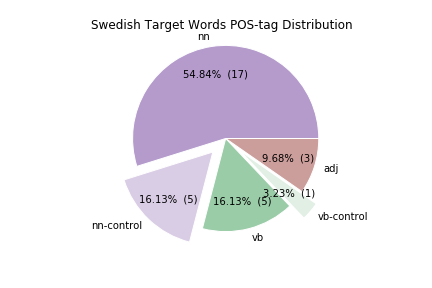
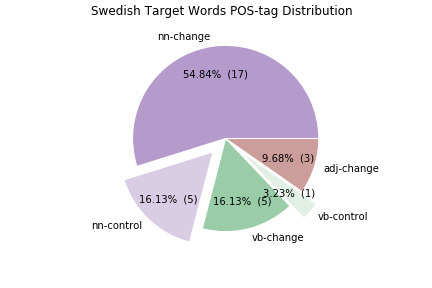
appendix formatting

Changed region(s): [[0.2106, 0.0, 0.8125, 0.1562], [0.7824, 0.5625, 0.8727, 0.625], [0.6019, 0.8125, 0.7222, 0.8438]]

diff --git a/sections/6-limitations.tex b/sections/6-limitations.tex
@@ -1,14 +1,10 @@
-\section{Critiques and Limitations (mostly critique, whats another name for this section)}
+\section{Critiques and Limitations}
 \label{sec:critiques}
 
 The common and most effective approach in detecting language change still presents limitations and makes many assumptions that must be acknowledged and discussed. This section will discuss components of semantic change that are overlooked with the approach used for this thesis and its shortcomings. 
 
-As with any task, different approaches have different aims and results. When detecting LSC through vector representations, the choice of what each vector represents can significantly change the results. For this thesis, each word in the vocabulary is represented by one vector only. However, by doing so the meaning of a word is limited, or arguably broadened. Words that have more than one sense or meaning will only be represented by an average of all of the times the word has been used in the corpus. This word vector representation can then be affected by the frequencies of the senses. If one sense appears more in a corpus than the other, its representation will skew towards the sense that is more prevalent.  When LSC is detected, the word’s multiple senses will be considered one entity. For example, if both of a word’s senses such as ‘arms’ as in the body part and ‘arms’ as in weapons appear in the same corpus, it will result in having one vector representation although each sense is different from the other. Using this approach while also using corpora that have time period spans as wide as multiple centuries can also overlook and skew the data. \citet{shoemark-etal-2019-room} show that there is a high chance that seasonal changes in words interfere with detecting semantic change within short time periods and present synthetic evaluation as a solution. An example of a seasonal trend would be the drastic change in frequency and use of the word 'turkey' during Thanksgiving. It is also important to acknowledge that this approach is inherently biased towards word frequency and lead to noise being introduced within the embeddings. (\citet{dubossarsky-etal-2017-outta}, \citet{kaiser-etal-2020-ims}, \citet{schlechtweg-etal-2020-semeval})
+As with any task, different approaches have different aims and results. When detecting LSC through vector representations, the choice of what each vector represents can significantly change the results. For this thesis, each word in the vocabulary is represented by one vector only. However, by doing so the meaning of a word is limited, or arguably broadened. Words that have more than one sense or meaning will only be represented by an average of all of the times the word has been used in the corpus. This word vector representation can then be affected by the frequencies of the senses. If one sense appears more in a corpus than the other, its representation will skew towards the sense that is more prevalent.  When LSC is detected, the word’s multiple senses will be considered one entity. For example, if both of a word’s senses such as ‘arms’ as in the body part and ‘arms’ as in weapons appear in the same corpus, it will result in having one vector representation although each sense is different from the other. Using this approach while also using corpora that have time period spans as wide as multiple centuries can also overlook and skew the data. \citet{shoemark-etal-2019-room} show that there is a high chance that seasonal changes in words interfere with detecting semantic change within short time periods and present synthetic evaluation as a solution. An example of a seasonal trend would be the drastic change in frequency and use of the word 'turkey' during Thanksgiving. It is also important to acknowledge that this approach is inherently biased towards word frequency and lead to noise being introduced within the embeddings. \citep{dubossarsky-etal-2017-outta, kaiser-etal-2020-ims, schlechtweg-etal-2020-semeval}
 
 Pre-processing of texts can also have a large effect on the scale and types of semantic change that can be detected. Methods such as lemmatization, lowercasing words, and removal of punctuation can limit what can be detected in terms of language change. For example, the change of 'apple' the fruit to 'Apple' the company would be difficult to detect if all use of the words in a corpus were lowercased \citep{tahmasebi-survey2018}. Since the SemEval corpora was gathered for a specific task with target words, this is not a great concern. However, it is something that must be considered when models are trained for general observation of semantic change.
-IS THIS NECESSARY?
 
-
-RE-READ THIS
-
-The method in which corpora are divided into time periods also present complexities within detecting LSC that must be considered \citep{hengchen2021challenges}. By grouping long periods of time as one time period, the slight variation and changes of meaning words undergo are either lost or minimized. A word or sense’s change in meaning does not have one clear trajectory. As with the SemEval Task, we are essentially detecting the average change of a word within two time periods. In order to detect “smaller” semantic changes, the time periods and the size of the corpora must be reduced. The genres of text within the corpora must also be considered. The texts used for English, German, and Swedish all contain newspaper corpora from specific time periods. It is important to be mindful that this kind of corpora is representative of a specific part of culture and society and is composed of a specific type of writing style. These corpora used with the Distributional Hypothesis “often conflate lexical meaning with cultural and topical information available in the corpus used as a basis for the model” \citep{hengchen2021challenges}. With such limited contexts, a question to keep in mind is whether newspaper corpora provide enough insight into the usages of a word and therefore the changes a word undergoes \citep{hengchen2021challenges}. Using a mix of text genres will provide a wider variety of word usages as one word sense could be used more in one genre over the other. Another solution would be to use textual genres and other social factors as features for the words' vector representations (\citet{perrone-etal-2019-gasc}, \citet{jawahar-seddah-2019-contextualized}). For SemEval, this is mitigated by having annotators provide the ground truth of a limited sample of a language using the DURel framework \citep{DURel2018} instead of referring to a dictionary. (MISSING EXPLAINING SENTENCE?, FEELS DISJOINTED) In detecting LSC as is the case with other research areas, domain-specific tasks will require different datasets and different methods of processing data. There is no one method to achieve all of the tasks of language change and different types of change in meaning can be detected through different methodologies. 
+The method in which corpora are divided into time periods also present complexities within detecting LSC that must be considered \citep{hengchen2021challenges}. By grouping long periods of time as one time period, the slight variation and changes of meaning words undergo are either lost or minimized. A word or sense’s change in meaning does not have one clear trajectory. As with the SemEval Task, we are essentially detecting the average change of a word within two time periods. In order to detect “smaller” semantic changes, the time periods and the size of the corpora must be reduced. The genres of text within the corpora must also be considered. The texts used for English, German, and Swedish all contain newspaper corpora from specific time periods. It is important to be mindful that this kind of corpora is representative of a specific part of culture and society and is composed of a specific type of writing style. These corpora used with the Distributional Hypothesis “often conflate lexical meaning with cultural and topical information available in the corpus used as a basis for the model” \citep{hengchen2021challenges}. With such limited contexts, a question to keep in mind is whether newspaper corpora provide enough insight into the usages of a word and therefore the changes a word undergoes \citep{hengchen2021challenges}. Using a mix of text genres will provide a wider variety of word usages as one word sense could be used more in one genre over the other. Another solution would be to use textual genres and other social factors as features for the words' vector representations \citep{perrone-etal-2019-gasc, jawahar-seddah-2019-contextualized}. For SemEval, this is mitigated by having annotators provide the ground truth of a limited sample of a language using the DURel framework \citep{DURel2018} instead of referring to a dictionary. (MISSING EXPLAINING SENTENCE?, FEELS DISJOINTED) In detecting LSC, as is the case with other research areas, domain-specific tasks will require different datasets and different methods of processing data. There is no one method to achieve all of the tasks of language change and different types of change in meaning can be detected through different methodologies. 

diff --git a/sections/5-ethics.tex b/sections/5-ethics.tex
@@ -1,8 +1,8 @@
 \section{Ethical Considerations}
 \label{sec:ethicalcons}
 
-Alongside an experimental research method such as a hyperparameter search, ethical considerations and acknowledgments must be included. The effects of conducting this experiment is critically assessed and evaluated through environmental and sociological lenses.
+Alongside an experimental research method such as a hyperparameter search, ethical considerations and acknowledgments must be included. (BAD WORDING) The effects of conducting this experiment is critically assessed and evaluated through environmental and sociological lenses.
 
-Throughout the process of the hyperparameter search, environmental impact was considered at each step. Although making adjustments were made in order to minimise environmental impact, they also create a more efficient and robust pipeline. As discussed in Section~\ref{exp-ethics}, the project had a total of X hours of training and computational time spent and X amount of CO\textsubscript{2} consumed. After training all of the model combinations that use the Word2Vec algorithm, results were evaluated and it was decided that not training 160 model combinations that required 100 epochs each of training for FastText would not produce results as significant or meaningful. Since FastText aims to create character \emph{n}-gram vector representations, training 100-epoch models would involve a much larger computational time and memory usage compared to the already large models that were created using Word2Vec. Despite acknowledgments and modifications for minimising consumption and efficiency reasons, a significant amount of energy and memory being used is inevitable during a large-scale hyperparameter search. To ensure that the energy consumed and the space taken is worthwhile, all of the results and pipeline will be available for public access (see \autoref{app-resources}). The POS-tagged word lists and cosine distances for each model will also be available for further analysis and future evaluations. This large-scale hyperparameter search is also well-documented to ensure that it will not have to be done again and future tasks can focus on refining model optimisations. 
+Throughout the process of the hyperparameter search, environmental impact was considered at each step. Although making adjustments were made in order to minimise environmental impact, they also create a more efficient and robust pipeline. As discussed in Section~\ref{exp-ethics}, the project had a total of approximately 430 hours of training and computational time spent and 1.372 kg of CO\textsubscript{2} consumed. After training all of the model combinations that use the Word2Vec algorithm, results were evaluated and it was decided that not training 160 model combinations that required 100 epochs each of training for FastText would not produce results as significant or meaningful. Since FastText aims to create character \emph{n}-gram vector representations, training 100-epoch models would involve a much larger computational time and memory usage compared to the already large models that were created using Word2Vec. Despite acknowledgments and modifications for minimising consumption and efficiency reasons, a significant amount of energy and memory being used is inevitable during a large-scale hyperparameter search. To ensure that the energy consumed and the space taken is worthwhile, all of the results and pipeline will be available for public access (see \autoref{app-resources}). The POS-tagged word lists and cosine distances for each model will also be available for further analysis and future evaluations. This large-scale hyperparameter search is also well-documented to ensure that it will not have to be done again and future tasks can focus on refining model optimisations. 
 
-Another crucial consideration that must be made is regarding the data and the type of content being used for training models. Humans have written the texts in the corpora being used and humans are inherently biased. Anonymity is also a concern for researchers when using text as data. Most of the historical texts used for this thesis are quite old, spanning from 2nd century B.C. to 2010 with most of the texts coming from the 1800s-1900s. Given the age of the texts being used, the question of anonymity and privacy is not a large concern for this thesis. Through training, machines also inevitably learn the biases from these past texts. Biases such as racism, sexism, homophobia and other forms of discrimination towards marginalised groups of people can be seen throughout historical texts. \citet{tripodi-etal-2019-tracing} show that antisemitic language can be detected through language change. It is extremely vital to acknowledge that these biases can appear in historical texts and to disclose (SOUNDS EXTRA LOL) that I do not endorse, nor agree with these biases. It is incredibly important to acknowledge the inherent bias that exists within historical data and what might be passed on to trained models. As \citet{hengchen-tahmasebi_2021-swedishdiachronic} state, the hope is to “shed light on these representations, as ignoring them would mean they have never existed”. 
+Another crucial consideration that must be made is regarding the data and the type of content being used for training models. Humans have written the texts in the corpora being used and humans are inherently biased. Anonymity is also a concern for researchers when using text as data. Most of the historical texts used for this thesis are quite old, spanning from 2nd century B.C. to 2010 with most of the texts coming from the 1800s-1900s. Given the age of the texts being used, the question of anonymity and privacy is not a large concern for this thesis. Through training, machines also inevitably learn the biases from these past texts. Biases such as racism, sexism, homophobia and other forms of discrimination towards marginalised groups of people can be seen throughout historical texts. \citet{tripodi-etal-2019-tracing} show that antisemitic language can be detected through language change. It is extremely vital to acknowledge that these biases can appear in historical texts and to disclose (SOUNDS EXTRA LOL) that I do not endorse, nor agree with these biases. It is incredibly important to acknowledge the inherent biases that exist within historical data and what might be passed on to trained models. As \citet{hengchen-tahmasebi_2021-swedishdiachronic} state, the hope is to “shed light on these representations, as ignoring them would mean they have never existed”. 

diff --git a/sections/3-exp-setup.tex b/sections/3-exp-setup.tex
@@ -84,6 +84,15 @@ In order to clarify the scope and justify the hyperparameter range for this larg
 
 
 %\cmtKV[inline]{**formatting, also think it would be useful to show the range after each subsubsection heading or would that be redundant, this below could also be neater, need to look into it}
+
+% bad conduct
+\bigskip
+\bigskip
+\bigskip
+\bigskip
+\bigskip
+\bigskip
+\bigskip
 The initial hyperparameters examined and analysed are shown below:
 \begin{itemize}
     \item language $\in$ [English, German, Latin, Swedish],
@@ -145,6 +154,6 @@ Initially, 1600 models were planned to be trained for this large-scale hyperpara
 
 The longer period of planning the pipeline was to ensure that once training begins, there are as little road blocks as possible. This would ensure that the training process and the storing of models were always organised and never lost or having to be retrained to avoid unnecessary consumption of resources. In hopes of remaining vigilant and conscious of the large amount of energy, resources, and storage being used for this thesis, adjustments to help with time and energy consumption were constantly being made to the pipeline. After the large-scale pipeline and the Orthogonal Procrustes alignment was incompatible with FastText models, the pipeline was restructured and already existing models were reformatted for efficiency purposes. Before the reformatting, 1TB of data and models were being stored. They were then transferred and reformatted as text files to take up significantly less space. To save computational time and energy, the cosine distances for the target words of each model were also stored as text files and will be made available to the public along with the model text files and pipeline. This was incredibly helpful since the initial plan was for the model to iterate through its entire vocabulary to search for the target words and calculate the overall Spearman’s $\rho$ and again for nouns, verbs, and adjectives. Another adjustment made during training was for the Incremental Alignment method. The model trained on the first time period corpus with the same hyperparameter combinations but for the Orthogonal Procrustes alignment method was used and trained again with the second time period corpus. This eliminated training what would have been 720 duplicate models.  
 
-This large undertaking was done using an Intel Xeon CPU E5-2640 v4 (25M Cache, 2.40 GHz). With about X hours total of training and computational time, around XX kg of CO\textsubscript{2} has been used which equates to X bananas, or X kilometers driven, or X avocados from Mexico\footnote{\url{https://www.weforum.org/agenda/2020/02/avocado-environment-cost-food-mexico/}}. These calculations were made through the CO\textsubscript{2} GU mltgpu tutorial\footnote{\url{https://github.com/faustusdotbe/CO2_GU_mltgpu/blob/main/mltgpu_co2.ipynb}} by Simon Hengchen. These statistics are incredibly important to disclose considering the vast environmental impact conducting these experiments will have. 
+This large undertaking was done using an Intel Xeon CPU E5-2640 v4 (25M Cache, 2.40 GHz). With approximately 430 hours total of training and computational time, around 1.372 kg of CO\textsubscript{2} has been used which equates to around 17 bananas, or 7.4 kilometers driven, or 3.2 avocados from Mexico\footnote{\url{https://www.weforum.org/agenda/2020/02/avocado-environment-cost-food-mexico/}}. These calculations were made through the CO\textsubscript{2} GU mltgpu tutorial\footnote{\url{https://github.com/faustusdotbe/CO2_GU_mltgpu/blob/main/mltgpu_co2.ipynb}} by Simon Hengchen. These statistics are incredibly important to disclose considering the vast environmental impact conducting these experiments will have. 
 \citet{strubell-etal-2019-energy} state that the most computationally-hungry models typically obtain the highest scores. \citet{strubell-etal-2019-energy} also raise awareness on the CO\textsubscript{2} consumption within the NLP community and the importance of reporting train times and sensitivity to hyperparameters. By providing these statistics, the overall scores, and other files that require computational time and energy consumption, others are able to  further explore and examine this task without having to do all of the model training again. The reporting and analysing of hyperparameter sensitivities and patterns between the models will also allow researchers to apply the findings of this thesis when selecting hyperparameters in order to train models that are efficient, environmentally-conscious, and yield the best results.
 

diff --git a/sections/9.2-appendix-overallresults.tex b/sections/9.2-appendix-overallresults.tex
@@ -1,7 +1,9 @@
-\section{Top-model Graphs (WORDING)}
+\section{Top Model Results Graphs}
 \label{app-topmodelgraphs}
 
-Each top-performing model is taken and only one parameter is changed to each possible variable examined in the hyperparameter search. How performance is affected by value changes in one variable is visualised through the graphs below. The figures are grouped by language. 
+Each top-performing model for each language is taken and only one hyperparameter is changed to each possible variable examined. How performance is affected by value changes in one variable is visualised through the graphs below. The figures are grouped by language. 
+
+\bigskip
 
 \begin{figure}[h]
   \centering
@@ -9,10 +11,15 @@ Each top-performing model is taken and only one parameter is changed to each pos
   \subcaptionbox{Dimensions}{\includegraphics[width = 3in]{sections/figures/top-models/eng_dims.png}}\\
   \subcaptionbox{Frequency Threshold}{\includegraphics[width = 3in]{sections/figures/top-models/eng_freqs.png}}\quad
   \subcaptionbox{Vocabulary Size}{\includegraphics[width = 3in]{sections/figures/top-models/eng_vocabalign.png}}
-  \caption{English Top-Model Graphs (MAKE A MORE MEANINGFUL CAPTION)}
+  \caption{English Top Model Hyperparamater Graphs}
   \label{fig:eng-topmodels}
 \end{figure}
 
+
+
+\pagebreak
+
+\vspace*{\fill}
 
 \begin{figure}[h]
   \centering
@@ -20,20 +27,30 @@ Each top-performing model is taken and only one parameter is changed to each pos
   \subcaptionbox{Dimensions}{\includegraphics[width = 3in]{sections/figures/top-models/deu_dims.png}}\\
   \subcaptionbox{Frequency Threshold}{\includegraphics[width = 3in]{sections/figures/top-models/deu_freqs.png}}\quad
   \subcaptionbox{Vocabulary Size}{\includegraphics[width = 3in]{sections/figures/top-models/deu_vocabalign.png}}
-  \caption{German Top-Model Graphs (MAKE A MORE MEANINGFUL CAPTION)}
+  \caption{German Top Model Hyperparamater Graphs)}
   \label{fig:deu-topmodels}
 \end{figure}
 
+\vspace*{\fill}
 
+\pagebreak
+
+\vspace*{\fill}
+ 
 \begin{figure}[h]
   \centering
   \subcaptionbox{Epochs}{\includegraphics[width = 3in]{sections/figures/top-models/lat_epochs.png}}\quad
   \subcaptionbox{Dimensions}{\includegraphics[width = 3in]{sections/figures/top-models/lat_dims.png}}\\
   \subcaptionbox{Frequency Threshold}{\includegraphics[width = 3in]{sections/figures/top-models/lat_freqs.png}}\quad
-  \caption{Latin Top-Model Graphs (MAKE A MORE MEANINGFUL CAPTION)}
+  \caption{Latin Top Model Hyperparamater Graphs}
   \label{fig:lat-topmodels}
 \end{figure}
 
+\vspace*{\fill}
+
+\pagebreak
+
+\vspace*{\fill}
 
 \begin{figure}[h]
   \centering
@@ -41,6 +58,8 @@ Each top-performing model is taken and only one parameter is changed to each pos
   \subcaptionbox{Dimensions}{\includegraphics[width = 3in]{sections/figures/top-models/sve_dims.png}}\\
   \subcaptionbox{Frequency Threshold}{\includegraphics[width = 3in]{sections/figures/top-models/sve_freqs.png}}\quad
   \subcaptionbox{Vocabulary Size}{\includegraphics[width = 3in]{sections/figures/top-models/sve_vocabalign.png}}
-  \caption{Swedish Top-Model Graphs (MAKE A MORE MEANINGFUL CAPTION)}
+  \caption{Swedish Top Model Hyperparamater Graphs}
   \label{fig:sve-topmodels}
 \end{figure}
+
+\vspace*{\fill}

diff --git a/sections/7-future.tex b/sections/7-future.tex
@@ -3,7 +3,7 @@
 
 There are still many questions that remain unanswered in the study of language change. In detecting LSC, finding methodologies that perform well in their respective domains is a continuous undertaking. Ways to expand the hyperparameter search in different aspects will be discussed in this section.
 
-Models trained on diachronic corpora to detect LSC must also be validated in other ways. Although the top models in this thesis performed well based on SemEval’s diachronic corpora, it would be interesting to take the same models and examine the model’s word representations based on synchronic data. Evaluating the validity of these models not only diachronically would give more insight into what word representations have learned and how accurate they are. This can be done by using a dataset such as \citet{supersim2021}'s SuperSim dataset—a similarity and relatedness test set for Swedish based on expert human judgments. 
+Models trained on diachronic corpora to detect LSC must also be validated in other ways. Although the top models in this thesis performed well based on SemEval’s diachronic corpora, it would be interesting to take the same models and examine each of the model’s word representations based on synchronic data. Evaluating the validity of these models not only diachronically would give more insight into what word representations have learned and how accurate they are. This can be done by using a dataset such as \citet{supersim2021}'s SuperSim dataset—a similarity and relatedness test set for Swedish based on expert human judgments. 
 
 An evident expansion of this hyperparameter search would be to use the top-performing hyperparameter combinations on other tasks and datasets to assess their robustness and applicability. Conducting similar hyperparameter searches for other languages would allow for a results comparison to see if the same hyperparameter combinations perform best and persist with languages that have similar structures or belong to the same language family. Of course, it is important to keep in mind that availability of datasets for LSC is very limited and the work will begin with creating these datasets. However, once this work has been done, identifying patterns between languages and their top-performing models would allow for a higher-level examination of hyperparameter combinations. Conclusions will hopefully be possible for meta-languages depending on how languages are related—genetic or phylogenetic, or shared language features (e.g. phonology, morphology, syntax). This would allow for more broad intuitions into what models create reliable word representations depending on the language.
 

diff --git a/main.tex b/main.tex
@@ -48,7 +48,7 @@ Semester and year: & Spring, 2021\\
 Supervisor: & Simon Hengchen\\
 Examiner: & Eleni Gregoromichelaki\\
 Report number: & (number will be provided by the administrators) \\
-Keywords: & (enter a few keywords) 
+Keywords: & semantic change, language change, diachronic word embeddings
 \end{tabular}
 \endgroup
 
@@ -62,7 +62,10 @@ Keywords: & (enter a few keywords)
 \singlespacing
 \section*{Abstract}
 
-Brief summary of research question, background, method, results\ldots
+RE-READ
+
+
+Lexical semantic change (LSC) detection through the use of diachronic corpora and computational methods continues to be a prevalent research area in language change. However, there has not been extensive work on further examining the models being trained and creating a foundation for what hyperparameters are best to use in order to obtain the best results.  In this thesis,  a large-scale hyperparameter search is conducted using the SemEval-2020 Task 1 dataset that includes English, German, Swedish, and Latin. Alongside model hyperparameters, algorithms (Word2Vec and FastText) and alignment methods (Orthogonal Procrustes and Incremental Training) were also included. The hyperparameters that were evaluated are: epochs, vector dimension size, frequency threshold, and shared vocabulary size for the Orthogonal Procrustes alignment method. By amalgamating all of the results and seeing how model performances are affected if one hyperparameter is changed, considerations that must be made before training a model were substantiated. Conclusions made were that there is a large decrease in performance improvement rate after 50 epochs in training and that the typical choice of 300 dimensions for vectors (based on English LSC tasks) does not necessarily apply to other languages. It is also shown that choices in dimension size, frequency threshold, and shared vocabulary size depend on the language in question, the corpus' size, and the genres of texts it is composed of. 
 
 \thispagestyle{empty}
 
@@ -145,11 +148,18 @@ Acknowledgements, etc.
 \addcontentsline{toc}{section}{References}
 \bibliography{anthology,katesbib}
 
-
+\newpage
 \appendix
 \input{sections/9.1-appendix-resources}
+
+\newpage
+
 \input{sections/9.2-appendix-overallresults}
+
+\newpage
+
 \input{sections/9.3-appendix-postagresults}
+\newpage
 
 \end{document}
 

diff --git a/sections/4-results.tex b/sections/4-results.tex
@@ -100,14 +100,16 @@ Every model trained was also evaluated by creating smaller target word lists bas
 
 %\cmtSH[inline]{Could you perhaps try to stick "the block of the same colour" together in the figure? Eg in Swedish and German. It's currently also difficult to know eg if the values for "nn" include those for "nn-control"}
 %\cmtKV[inline]{REARRANGE PIE SLICES}
+%\cmtSH{It would be wiser to rename, in the plot itself, "nn" to "nn-change" -- otherwise it's unclear whether nn-control is part of nn without doing the addition} 
 
 \begin{figure}[h]
   \centering
-  \subcaptionbox{\label{fig:postag-eng}English}{\includegraphics[width = 3in]{sections/figures/eng-pos-target-control.png}}\quad
-  \subcaptionbox{\label{fig:postag-deu}German}{\includegraphics[width = 3in]{sections/figures/deu-pos-target-control.png}}\\
-  \subcaptionbox{\label{fig:postag-lat}Latin}{\includegraphics[width = 3in]{sections/figures/lat-pos-target-control.png}}\quad
-  \subcaptionbox{\label{fig:postag-sve}Swedish}{\includegraphics[width = 3in]{sections/figures/sve-pos-target-control.png}}
-  \caption{Target Word POS-tag Distribution for Each Language. Control words (words that have not undergone semantic change) are shown through a lighter colour respective of its POS-tag and offsetted. }
+  \vspace*{-2mm}
+  \subcaptionbox{\label{fig:postag-eng}English (89$\%$ nouns, 11$\%$ verbs)}{\includegraphics[width = 3in]{sections/figures/eng-pos-target-control.png}}\quad
+  \subcaptionbox{\label{fig:postag-deu}German(67$\%$ nouns, 29$\%$  verbs, 4$\%$ adjectives)}{\includegraphics[width = 3in]{sections/figures/deu-pos-target-control.png}}\\
+  \subcaptionbox{\label{fig:postag-lat}Latin (70$\%$ nouns, 12.5$\%$  verbs, 17.5$\%$ adjectives)}{\includegraphics[width = 3in]{sections/figures/lat-pos-target-control.png}}\quad
+  \subcaptionbox{\label{fig:postag-sve}Swedish (71$\%$ nouns, 19$\%$ verbs, 10$\%$ adjectives)}{\includegraphics[width = 3in]{sections/figures/sve-pos-target-control.png}}
+  \caption{Target Word POS-tag Distribution for Each Language. Control words (words that have not undergone semantic change) are shown through a lighter colour respective of its POS-tag and offsetted. Percentages are rounded to the nearest integer for readability.}
   \label{fig:target-postags}
 \end{figure}
 

diff --git a/sections/9.1-appendix-resources.tex b/sections/9.1-appendix-resources.tex
@@ -4,9 +4,9 @@
 * ADD LINKS
 \begin{itemize}
 
-  \item Main Results
-  \item POS-tag Results
-  \item POS-tagged Target Word Lists for SemEval-2020 Task 1
+  \item \href{https://github.com/kateviloria/Semantic-Change-Thesis/blob/main/results/MAIN_ALL.csv}{Main Results}
+  \item \href{https://github.com/kateviloria/Semantic-Change-Thesis/blob/main/results/postag-results/MAIN_POS_RESULTS.csv}{POS-tag Results}
+  \item \href{https://github.com/kateviloria/Semantic-Change-Thesis/tree/main/truth-labels}{POS-tagged Target Word Lists for SemEval-2020 Task 1}
   \item Model Cosine Distances
 
 \end{itemize}
